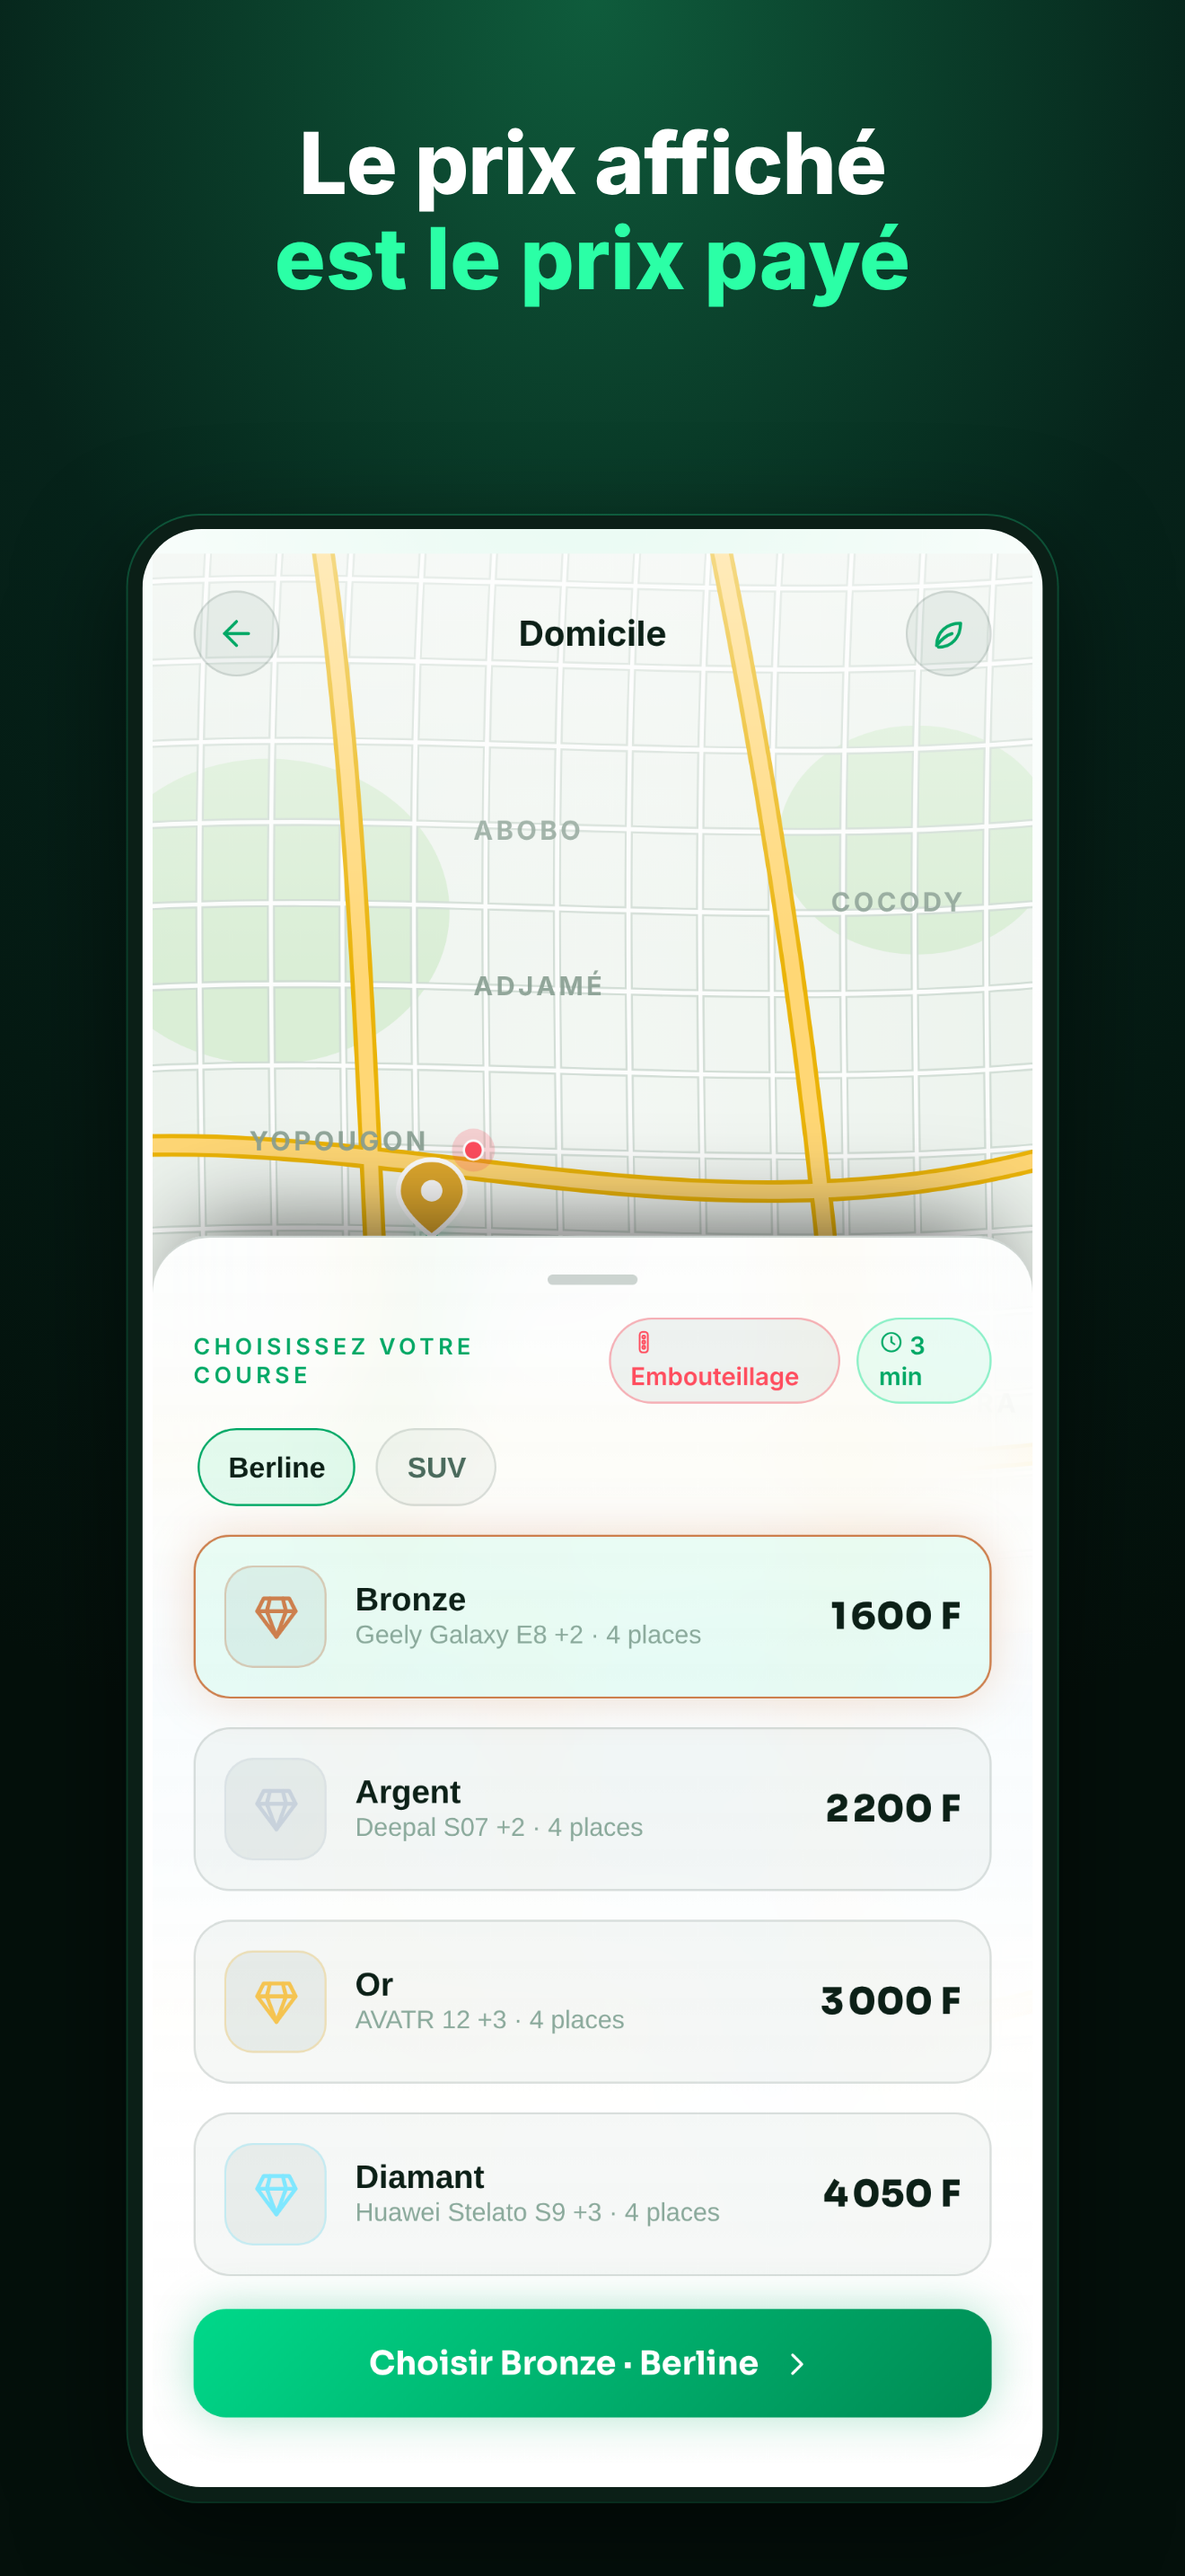
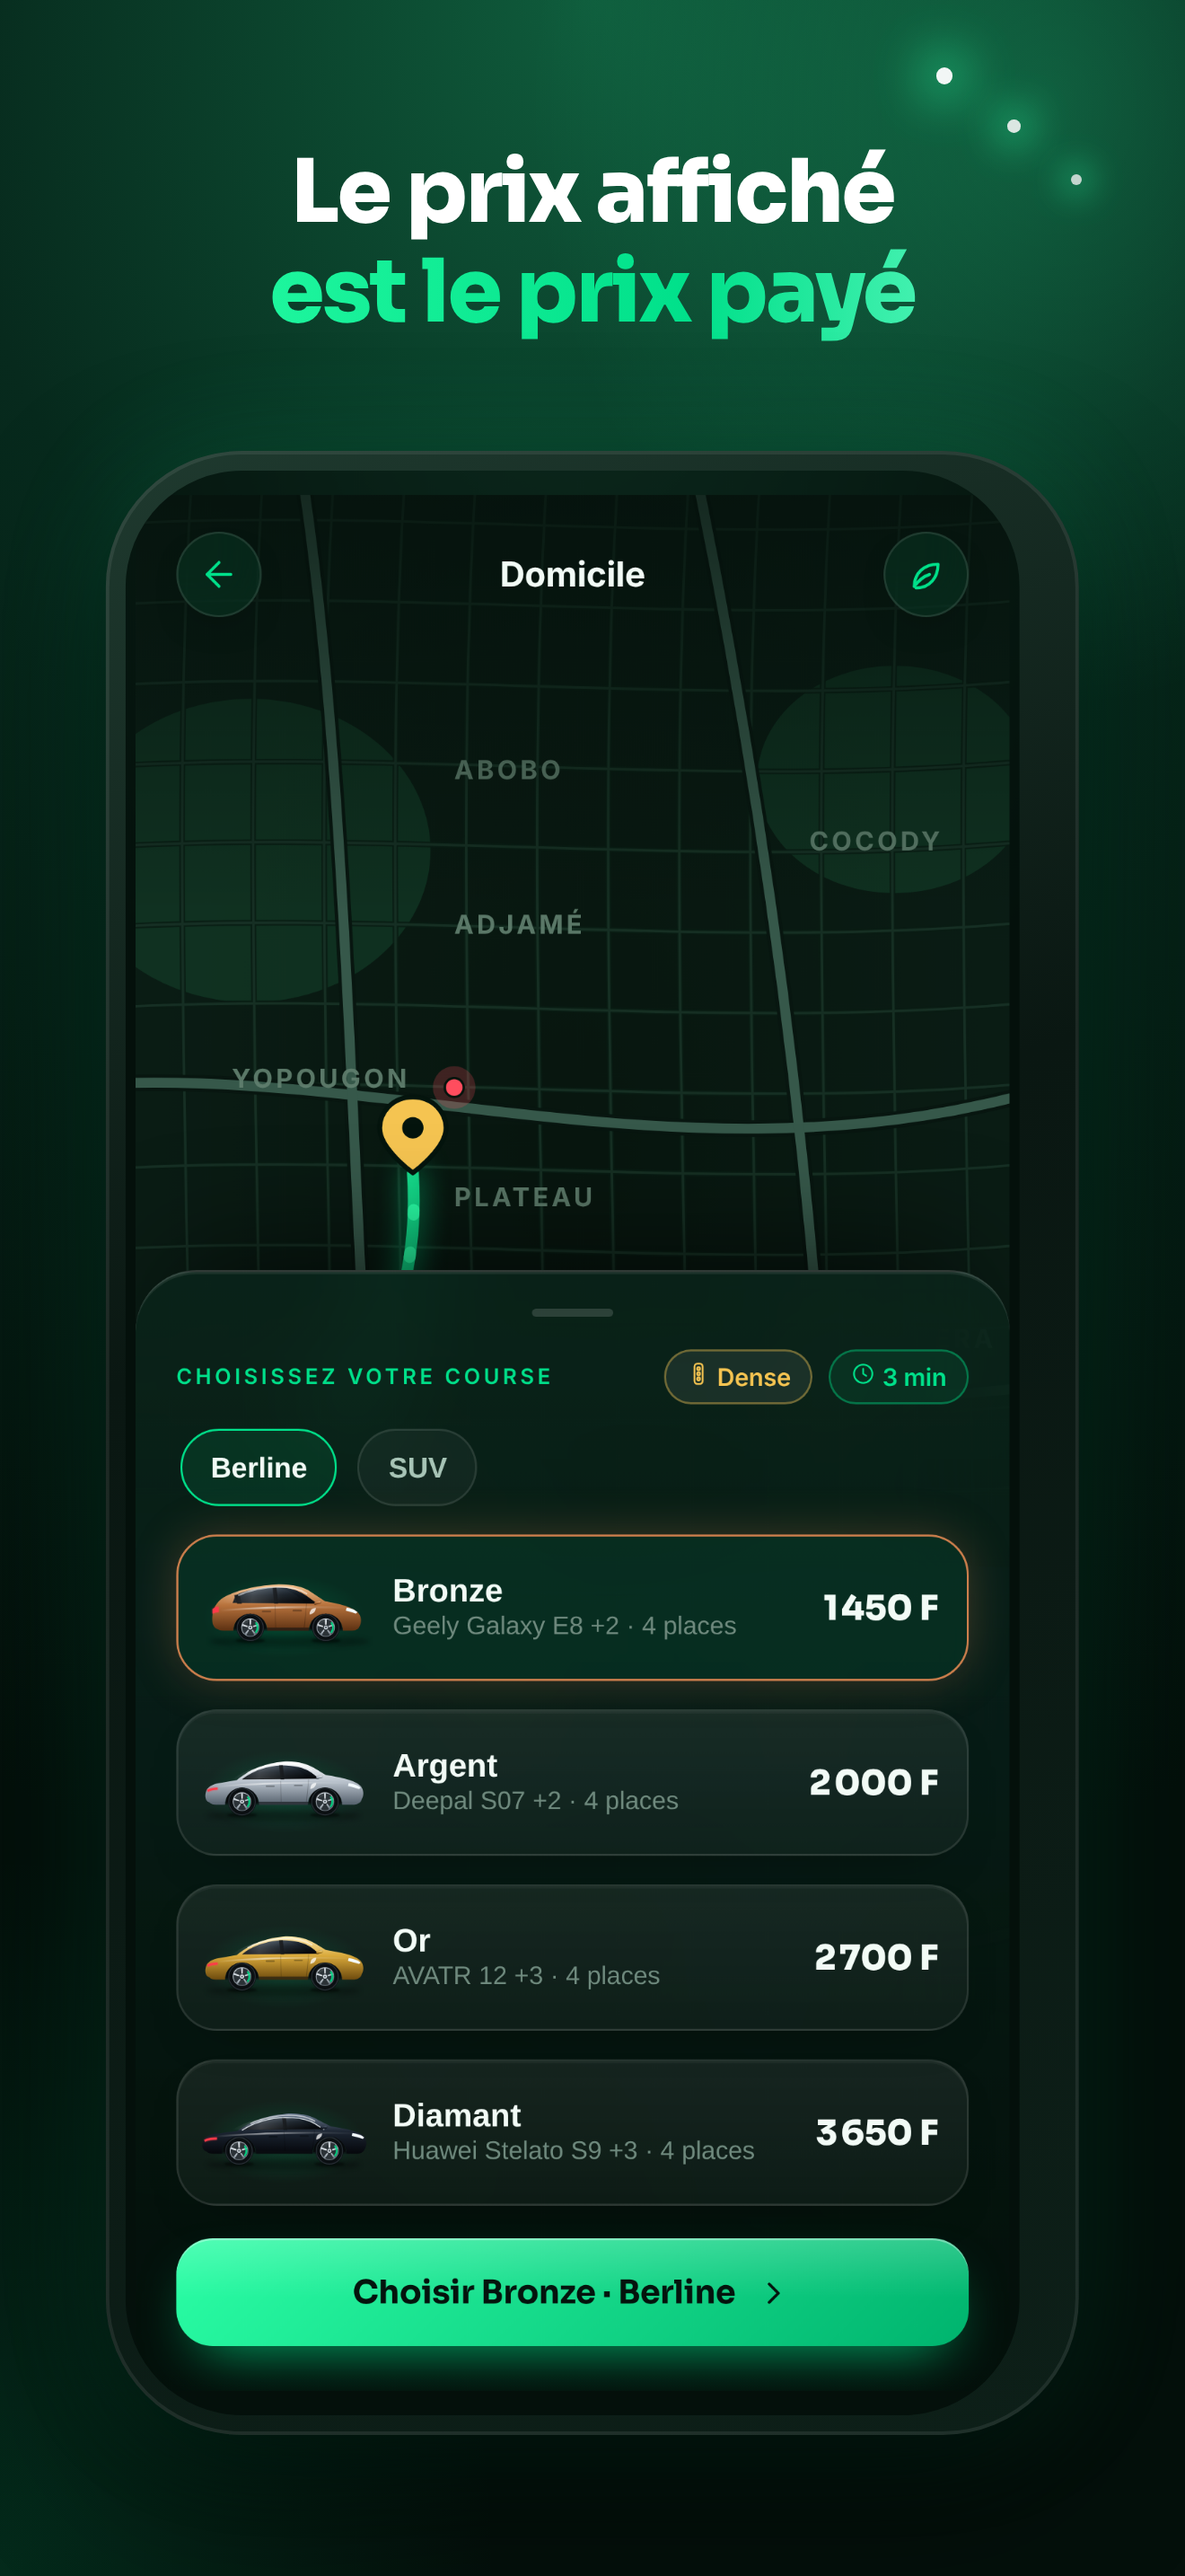
Stores : visuels refaits avec le nouveau design, 8 écrans au lieu de 6
- Captures réelles de l'app redessinée, police Sora comprise : accueil, prix,
  suivi, SOS, livraison moto, trois couleurs, paramètres, historique.
- Formats inchangés : iPhone 6,9 pouces (1320×2868) et Android (1080×1920), plus la
  bannière Google Play (1024×500).
- README : ordre des 8 captures, texte promotionnel et description mis à jour
  (choix de la couleur de l'app).

Claude-Session: https://claude.ai/code/session_014WMu7Ya2W7ZpVagNofG9c2

diff --git a/store/README.md b/store/README.md
@@ -2,7 +2,7 @@
 
 Tout ce qu'il faut pour remplir les fiches **App Store Connect** (Apple) et **Play Console**
 (Google). Les visuels sont faits à partir de **captures réelles** de l'application, prises sur
-le serveur ORION en fonctionnement (aucune maquette).
+le serveur ORION en fonctionnement (aucune maquette), avec le nouveau design de l'app.
 
 > Statut : l'application n'est **pas encore publiée**. Tant que les fiches ne sont pas
 > validées par Apple et Google, elle n'apparaît dans aucune recherche des stores.
@@ -14,10 +14,11 @@ le serveur ORION en fonctionnement (aucune maquette).
 | `icone-app-store-1024.png` | Icône App Store | 1024×1024, PNG sans transparence |
 | `icone-google-play-512.png` | Icône Play Store | 512×512, PNG 32 bits |
 | `google-play-banniere-1024x500.png` | Bannière Play Store (obligatoire) | 1024×500 |
-| `captures/app-store-iphone-6.9/*.png` | Captures iPhone (6 écrans) | 1320×2868 (iPhone 6,9") |
-| `captures/google-play-telephone/*.png` | Captures téléphone Android (6 écrans) | 1080×1920 (9:16) |
+| `captures/app-store-iphone-6.9/*.png` | Captures iPhone (8 écrans) | 1320×2868 (iPhone 6,9") |
+| `captures/google-play-telephone/*.png` | Captures téléphone Android (8 écrans) | 1080×1920 (9:16) |
 
-Ordre conseillé des captures : accueil, prix, suivi, SOS, paramètres, historique.
+Ordre conseillé des captures : accueil, prix, suivi, SOS, livraison, couleurs, paramètres,
+historique. Huit, c'est le maximum accepté par Google (Apple en accepte dix).
 L'app n'est déclarée que pour iPhone (pas d'iPad) : aucune capture iPad n'est demandée.
 
 Les applications natives sont dans `frontend/ios` et `frontend/android` (voir `NATIVE.md`).
@@ -33,7 +34,7 @@ Identifiant des deux apps : **`ci.orion.app`**. Version **1.0.0**, build **1**.
 `VTC 100 % électrique à Abidjan : prix fixe, suivi en direct et SOS intégré.`
 
 **Texte promotionnel Apple** (170 max, modifiable sans nouvelle version) :
-`Nouveau : créez votre compte avec photo, retrouvez vos courses et annulations, et suivez en direct la réponse d’ORION à une alerte SOS.`
+`Nouveau : une app entièrement redessinée, trois couleurs au choix, et toujours vos courses, livraisons et alertes SOS suivies en direct.`
 
 **Mots-clés Apple** (100 max, séparés par des virgules) :
 `vtc,taxi,abidjan,course,chauffeur,électrique,livraison,coursier,moto,sos,mobile money,côte d’ivoire`
@@ -65,6 +66,7 @@ VOTRE COMPTE, EN TOUTE TRANSPARENCE
 • Historique de toutes vos courses et annulations, avec le motif et les éventuels frais.
 • Annulation gratuite tant qu'aucun chauffeur n'est en route, puis pendant 2 minutes après l'acceptation.
 • Suppression du compte à tout moment, depuis les paramètres.
+• L'app à votre couleur : vert, orange ou bleu, en mode clair ou sombre.
 
 ORION est disponible à Abidjan, Côte d'Ivoire. Application en français, anglais, espagnol, italien, allemand, arabe, chinois et russe.
 ```
